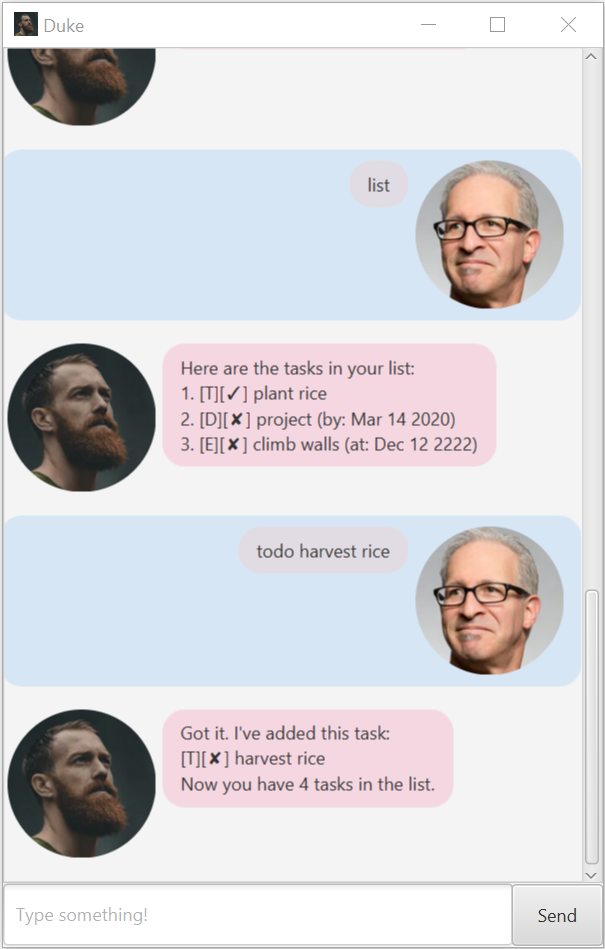
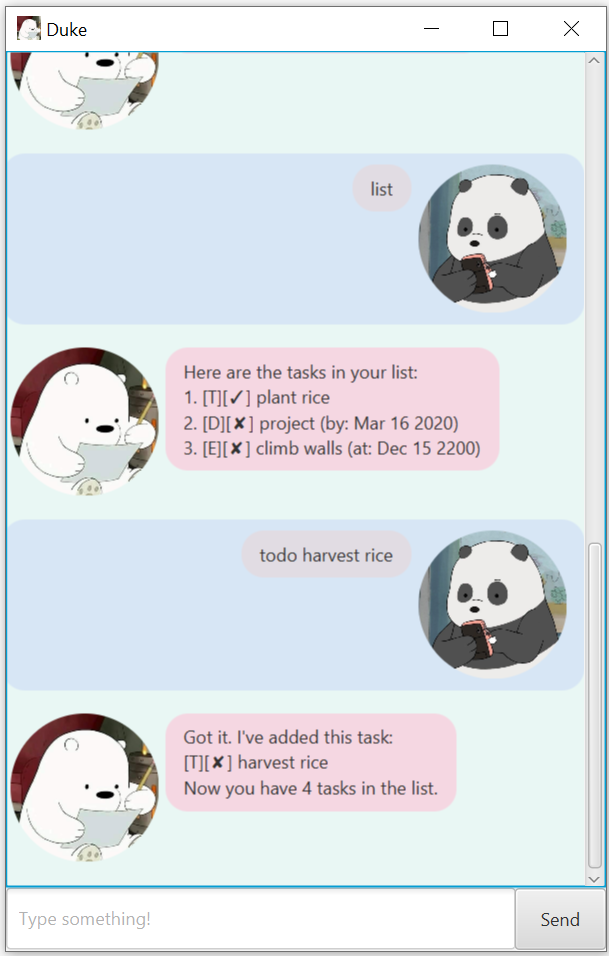
More GUI

diff --git a/src/main/java/MainWindow.java b/src/main/java/MainWindow.java
@@ -1,4 +1,3 @@
-import exception.DukeException;
 import javafx.fxml.FXML;
 import javafx.scene.control.Button;
 import javafx.scene.control.ScrollPane;
@@ -30,8 +29,7 @@ public class MainWindow extends AnchorPane {
     @FXML
     public void initialize() {
         scrollPane.vvalueProperty().bind(dialogContainer.heightProperty());
-
-        // welcome the user upon start up
+        dialogContainer.setStyle("-fx-background-color: #e9f7f4;");
         String response = "Greetings from Duke!\nWhat do you want to do today?";
         dialogContainer.getChildren().addAll(
                 DialogBox.getDukeDialog(response, dukeImage)
@@ -47,7 +45,7 @@ public class MainWindow extends AnchorPane {
      * Creates two dialog boxes.
      */
     @FXML
-    private void handleUserInput() throws IOException, DukeException {
+    private void handleUserInput() throws IOException {
         String input = userInput.getText();
         String response = duke.getResponse(input);
         dialogContainer.getChildren().addAll(

diff --git a/src/main/java/TaskList.java b/src/main/java/TaskList.java
@@ -41,7 +41,7 @@ public class TaskList {
                 break;
             }
             case "event": {
-                if (whole.split(" ").length != 4) {
+                if (whole.split(" ").length < 4) {
                     throw new InvalidCommandException(":-( Oops!!! Please give me more details! :-(");
                 }
                 String desc = parser.getDesc(whole);
@@ -51,7 +51,7 @@ public class TaskList {
                 break;
             }
             case "deadline": {
-                if (whole.split(" ").length != 4) {
+                if (whole.split(" ").length < 4) {
                     throw new InvalidCommandException(":-( Oops!!! Please give me more details! :-(");
                 }
                 String desc = parser.getDesc(whole);
